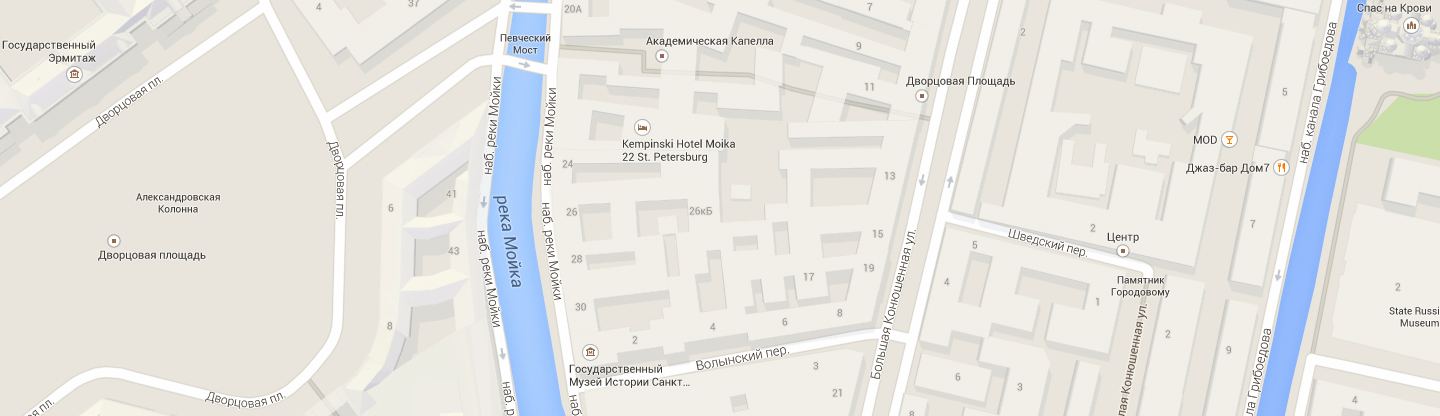
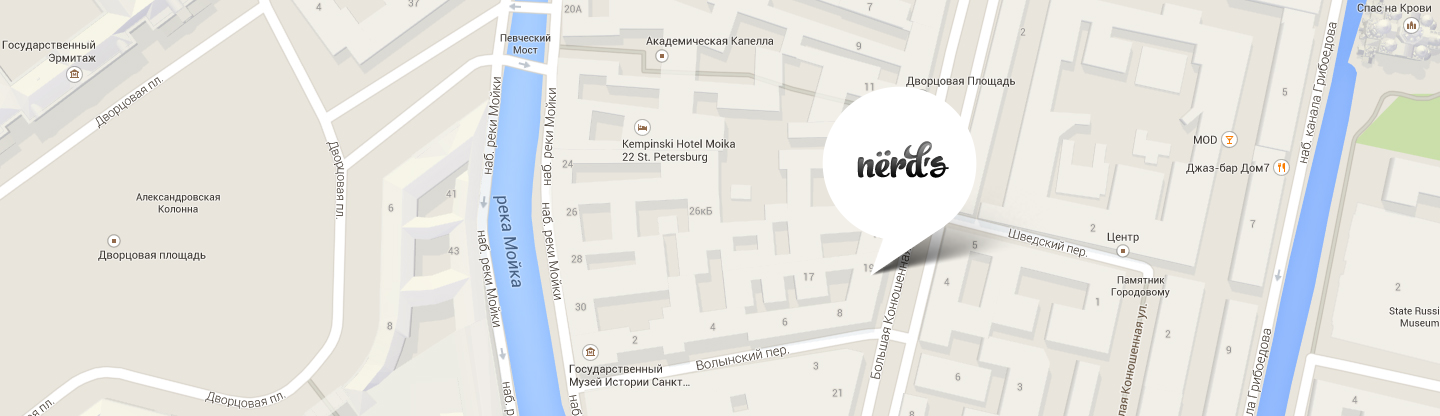
Завершаем вёрстку главной страницы

Changed region(s): [[0.5625, 0.2188, 0.6875, 0.6562]]

diff --git a/css/style.css b/css/style.css
@@ -230,6 +230,7 @@ img {
 
 .features-slider .slider-button {
   padding: 16px 54px;
+  margin-bottom: 80px;
 }
 
 .slide {
@@ -844,6 +845,7 @@ img {
   margin-bottom: 30px;
   border-bottom-right-radius: 5px;
   border-bottom-left-radius: 5px;
+  overflow: auto;
 }
 
 .catalog-item::before {
@@ -878,11 +880,12 @@ img {
 .catalog-item-discription {
   position: absolute;
   box-sizing: border-box;
-  height: 231px;
+  min-height: 231px;
   width: 360px;
   left: 0;
   right: 0;
   bottom: 0;
+  padding: 26px 55px;
   text-align: center;
   background-color: var(--header-background);
   border-bottom-right-radius: 5px;
@@ -911,8 +914,7 @@ img {
 }
 
 .catalog-item-discription h3 {
-  margin-top: 26px;
-  margin-bottom: 11px;
+  margin: 0px;
 }
 
 .catalog-item-title {
@@ -933,7 +935,8 @@ img {
 }
 
 .catalog-item-info {
-  margin: 0 0 34px 0px;
+  margin-top: 12px;
+  margin-bottom: 33px;
   line-height: 18px;
 }
 
@@ -1013,36 +1016,27 @@ img {
 /* footer */
 
 .map-wrap {
-  position: relative;
-  margin: 0 auto;
-  width: 1440px;
   height: 416px;
+  background-image: url(../img/map.png);
+  background-repeat: no-repeat;
+  background-size: cover;
+  background-position: 50% 0px;
 }
 
-.footer-map {
-  display: block;
-  background-color: var(--header-background);
-  width: 1440px;
+.map-wrap iframe {
+  width: 100%;
   height: 416px;
-}
-
-.map-marker {
-  position: absolute;
-  bottom: 140px;
-  left: 822px;
 }
 
 .contacts {
+  position: relative;
   box-sizing: border-box;
-  position: absolute;
   background-color: var(--button-text);
-  bottom: 54px;
-  left: 140px;
-  min-height: 308px;
-  padding-left: 50px;
-  padding-right: 50px;
-  min-height: 308px;
-  min-width: 319px;
+  height: 308px;
+  padding: 10px 50px;
+  width: 319px;
+  bottom: 370px;
+  overflow: auto;
 }
 
 .contact-tittle {
@@ -1051,7 +1045,7 @@ img {
   line-height: 30px;
   color: var(--basic-title);
   text-transform: uppercase;
-  margin-top: 49px;
+  margin-top: 40px;
   margin-bottom: 22px;
 }
 
@@ -1131,16 +1125,43 @@ img {
 
 /* modal */
 
+.modal-feedback {
+  display: none;
+  position: fixed;
+  right: 0;
+  left: 0;
+  margin: 0 auto;
+  top: 100px;
+  bottom: 180px;
+  width: 960px;
+  min-height: 590px;
+  padding: 65px 100px;
+  box-sizing: border-box;
+  background-color: var(--button-text);
+  box-shadow: 0 30px 50px rgba(0, 0, 0, 0.7);
+  z-index: 100;
+}
+
+.feedback-form-wrap {
+  display: grid;
+  grid-template-columns: 360px 360px;
+  column-gap: 40px;
+  row-gap: 34px;
+  margin-bottom: 45px;
+}
+
 .modal-feedback h2 {
   font-weight: bold;
   font-size: 45px;
   line-height: 53px;
+  margin-top: 0;
+  margin-bottom: 38px;
 }
 
-.feedback-form p {
+.feedback-label {
   color: var(--basic-title);
   font-weight: bold;
-  line-height: 18px
+  line-height: 18px;
 }
 
 .feedback-form input[type="text"], textarea {
@@ -1151,6 +1172,21 @@ img {
   border-radius: 3px;
   opacity: 0.5;
   outline: none;
+  margin-top: 10px;
+}
+
+.feedback-form input {
+  width: 340px;
+  height: 45px;
+  padding-left: 14px;
+}
+
+.feedback-form textarea {
+  width: 740px;
+  min-height: 97px;
+  padding-top: 14px;
+  padding-left: 15px;
+  resize: vertical;
 }
 
 .feedback-form input:hover, textarea:hover {
@@ -1165,5 +1201,30 @@ img {
 .feedback-form input:invalid, textarea:invalid {
   border: 2px solid var(--basic-button-hover);
   color: var(--basic-button-hover);
+  opacity: 1;
+}
+
+.feedback-button {
+  padding: 16px 84px;
+}
+
+.modal-close {
+  position: absolute;
+  top: 78px;
+  right: 90px;
+  width: 21px;
+  height: 21px;
+  border: 0;
+  cursor: pointer;
+  background-image: url(../img/icons/close-cross.svg);
+  background-color: transparent;
+  opacity: 0.3;
+}
+
+.modal-close:hover {
+  opacity: 0.1;
+}
+
+.modal-close:active {
   opacity: 1;
 }

diff --git a/index.html b/index.html
@@ -156,14 +156,18 @@
   <footer class="main-footer">
     <section class="map-wrap">
       <h2 class="visually-hidden">Контакты</h2>
-      <img class="footer-map" src="img/map.png" alt="карта" width="1440" height="416">
-      <img class="map-marker" src="img/map-marker.png" alt="маркер карты" width="231" height="190">
-      <div class="contacts">
-        <p class="contact-tittle">NЁRDS DESIGN STUDIO</p>
-        <p class="contact-text">191186, Санкт-Петербург,<br>
-          ул. Б. Конюшенная, д. 19/8</p>
-        <p class="contact-text">тел. <a class="footer-phone" href="tel:+78122757575">+7 (812) 275-75-75</a></p>
-        <a class="button contacts-button" href="#">Напишите нам</a>
+      <iframe
+        src="https://www.google.com/maps/embed?pb=!1m18!1m12!1m3!1d499.65094655732344!2d30.322500229295052!3d59.93871649886725!2m3!1f0!2f0!3f0!3m2!1i1024!2i768!4f13.1!3m3!1m2!1s0x4696310fca145cc1%3A0x42b32648d8238007!2z0JHQvtC70YzRiNCw0Y8g0JrQvtC90Y7RiNC10L3QvdCw0Y8g0YPQuy4sIDE5LzgsINCh0LDQvdC60YIt0J_QtdGC0LXRgNCx0YPRgNCzLCAxOTExODY!5e0!3m2!1sru!2sru!4v1613647013154!5m2!1sru!2sru"
+        width="1440px" height="416px" frameborder="0" style="border:0;" allowfullscreen="" aria-hidden="false"
+        tabindex="0" title="191186, Санкт-Петербург, ул. Большая Конюшенная 19/8"></iframe>
+      <div class="container">
+        <div class="contacts">
+          <p class="contact-tittle">NЁRDS DESIGN STUDIO</p>
+          <p class="contact-text">191186, Санкт-Петербург,<br>
+            ул. Б. Конюшенная, д. 19/8</p>
+          <p class="contact-text">тел. <a class="footer-phone" href="tel:+78122757575">+7 (812) 275-75-75</a></p>
+          <a class="button contacts-button" href="#">Напишите нам</a>
+        </div>
       </div>
     </section>
     <section class="footer-social container">
@@ -204,24 +208,20 @@
     </section>
   </footer>
 
-  <section class="modal-feedback container">
+  <section class="modal-feedback">
     <h2>Напишите нам</h2>
     <form class="feedback-form" action="https://echo.htmlacademy.ru" method="post">
-      <p>
-        <label for="name">Ваше имя:</label>
-        <input id="name" type="text" name="name" placeholder="Имя Фамилия">
-      </p>
-      <p>
-        <label for="email">Ваш email:</label>
-        <input id="email" type="text" name="email" placeholder="email@example.com">
-      </p>
-      <p>
-        <label for="message">Текст письма:</label>
-        <textarea id="message" name="message" placeholder="В свободной форме"></textarea>
-      </p>
-      <button class="button" type="submit">Отправить</button>
+      <div class="feedback-form-wrap">
+        <label class="feedback-label" for="name">Ваше имя:
+          <input id="name" type="text" name="name" placeholder="Имя Фамилия"></label>
+        <label class="feedback-label" for="email">Ваш email:
+          <input id="email" type="text" name="email" placeholder="email@example.com"></label>
+        <label class="feedback-label" for="message">Текст письма:
+          <textarea id="message" name="message" placeholder="В свободной форме"></textarea></label>
+      </div>
+      <button class="button feedback-button" type="submit">Отправить</button>
     </form>
-    <button class="modal-close" type="button">Закрыть</button>
+    <button class="modal-close" type="button" aria-label="Закрыть"></button>
   </section>
 </body>
 

diff --git a/catalog.html b/catalog.html
@@ -224,14 +224,18 @@
   <footer class="main-footer">
     <section class="map-wrap">
       <h2 class="visually-hidden">Контакты</h2>
-      <img class="footer-map" src="img/map.png" alt="карта" width="1440" height="416">
-      <img class="map-marker" src="img/map-marker.png" alt="маркер карты" width="231" height="190">
-      <div class="contacts">
-        <p class="contact-tittle">NЁRDS DESIGN STUDIO</p>
-        <p class="contact-text">191186, Санкт-Петербург,<br>
-          ул. Б. Конюшенная, д. 19/8</p>
-        <p class="contact-text">тел. <a class="footer-phone" href="tel:+78122757575">+7 (812) 275-75-75</a></p>
-        <a class="button contacts-button" href="#">Напишите нам</a>
+      <iframe
+        src="https://www.google.com/maps/embed?pb=!1m18!1m12!1m3!1d499.65094655732344!2d30.322500229295052!3d59.93871649886725!2m3!1f0!2f0!3f0!3m2!1i1024!2i768!4f13.1!3m3!1m2!1s0x4696310fca145cc1%3A0x42b32648d8238007!2z0JHQvtC70YzRiNCw0Y8g0JrQvtC90Y7RiNC10L3QvdCw0Y8g0YPQuy4sIDE5LzgsINCh0LDQvdC60YIt0J_QtdGC0LXRgNCx0YPRgNCzLCAxOTExODY!5e0!3m2!1sru!2sru!4v1613647013154!5m2!1sru!2sru"
+        width="1440px" height="416px" frameborder="0" style="border:0;" allowfullscreen="" aria-hidden="false"
+        tabindex="0" title="191186, Санкт-Петербург, ул. Большая Конюшенная 19/8"></iframe>
+      <div class="container">
+        <div class="contacts">
+          <p class="contact-tittle">NЁRDS DESIGN STUDIO</p>
+          <p class="contact-text">191186, Санкт-Петербург,<br>
+            ул. Б. Конюшенная, д. 19/8</p>
+          <p class="contact-text">тел. <a class="footer-phone" href="tel:+78122757575">+7 (812) 275-75-75</a></p>
+          <a class="button contacts-button" href="#">Напишите нам</a>
+        </div>
       </div>
     </section>
     <section class="footer-social container">
@@ -275,21 +279,17 @@
   <section class="modal-feedback">
     <h2>Напишите нам</h2>
     <form class="feedback-form" action="https://echo.htmlacademy.ru" method="post">
-      <p>
-        <label for="name">Ваше имя:</label>
-        <input id="name" type="text" name="name" placeholder="Имя Фамилия">
-      </p>
-      <p>
-        <label for="email">Ваш email:</label>
-        <input id="email" type="text" name="email" placeholder="email@example.com">
-      </p>
-      <p>
-        <label for="message">Текст письма:</label>
-        <textarea id="message" name="message" placeholder="В свободной форме"></textarea>
-      </p>
-      <button class="button" type="submit">Отправить</button>
+      <div class="feedback-form-wrap">
+        <label class="feedback-label" for="name">Ваше имя:
+          <input id="name" type="text" name="name" placeholder="Имя Фамилия"></label>
+        <label class="feedback-label" for="email">Ваш email:
+          <input id="email" type="text" name="email" placeholder="email@example.com"></label>
+        <label class="feedback-label" for="message">Текст письма:
+          <textarea id="message" name="message" placeholder="В свободной форме"></textarea></label>
+      </div>
+      <button class="button feedback-button" type="submit">Отправить</button>
     </form>
-    <button class="modal-close" type="button">Закрыть</button>
+    <button class="modal-close" type="button" aria-label="Закрыть"></button>
   </section>
 </body>
 
